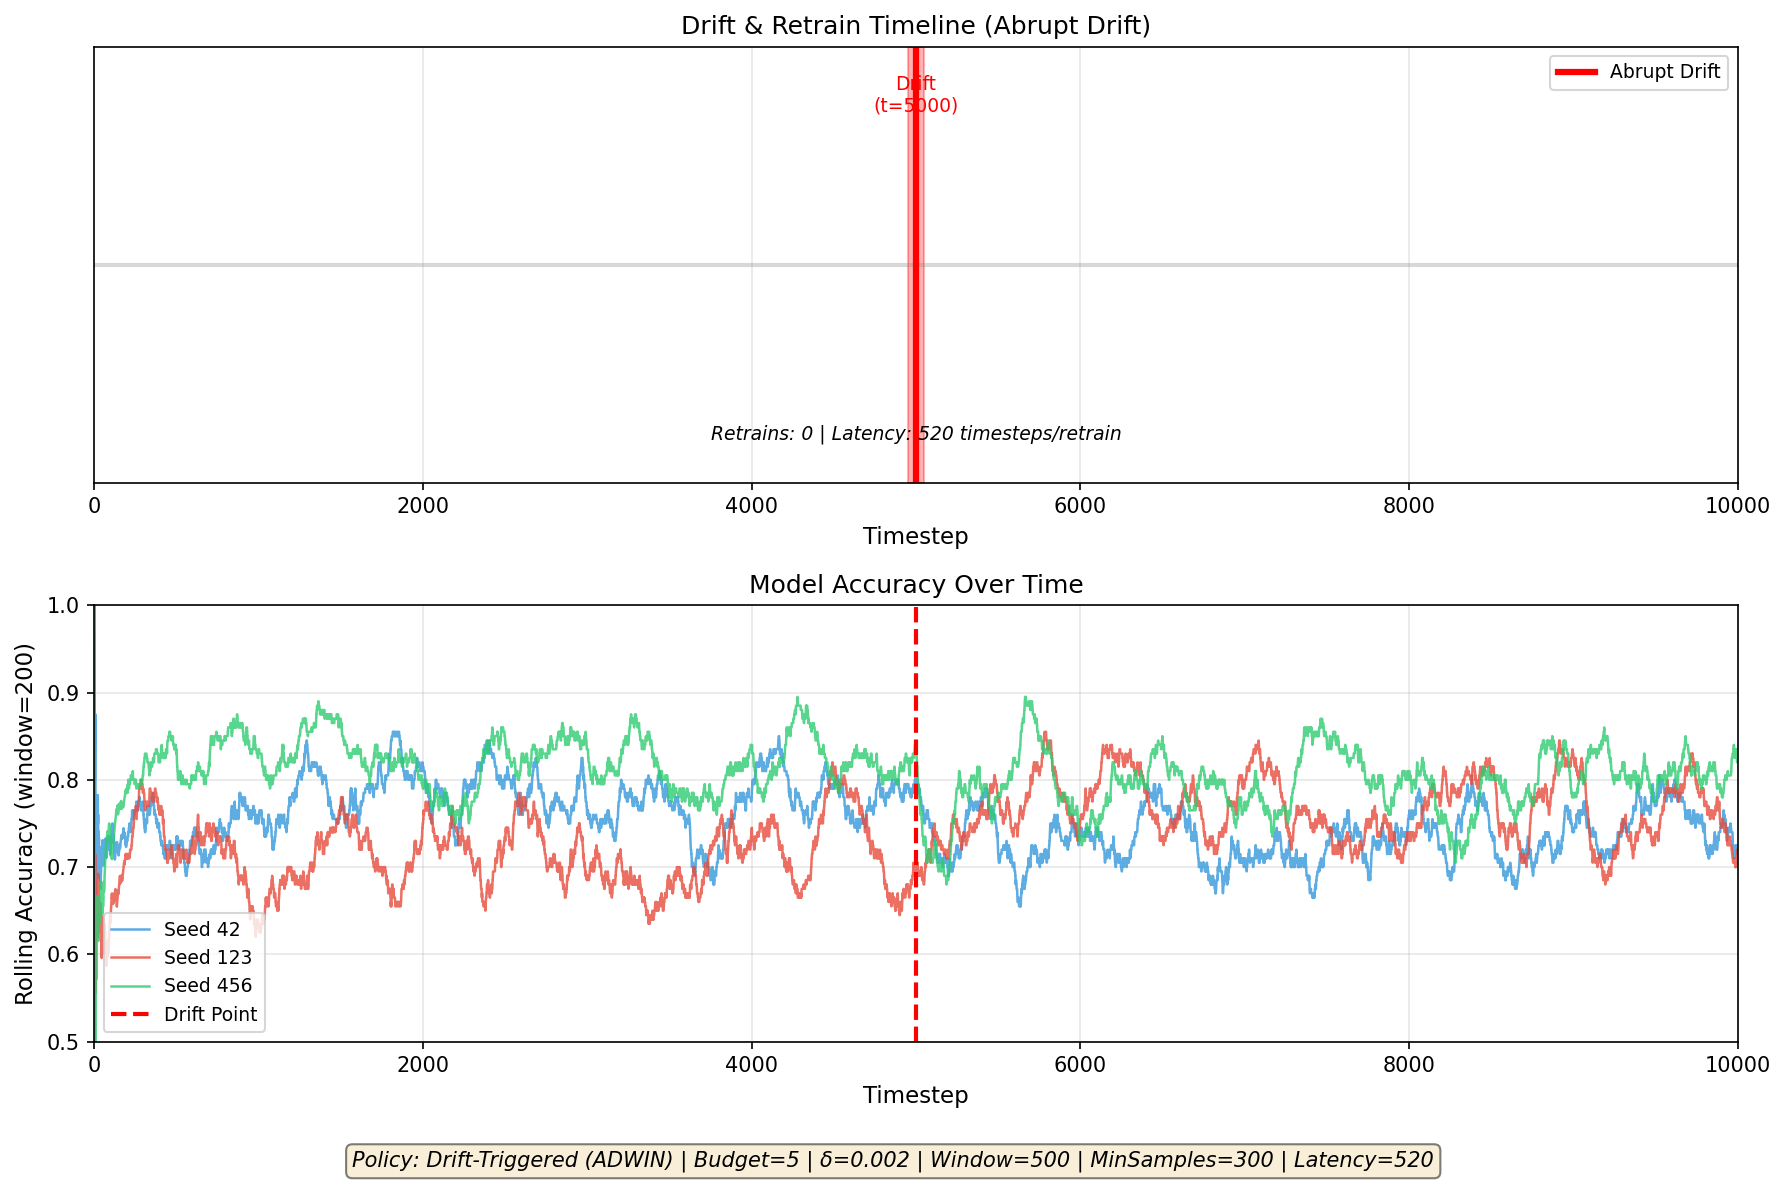
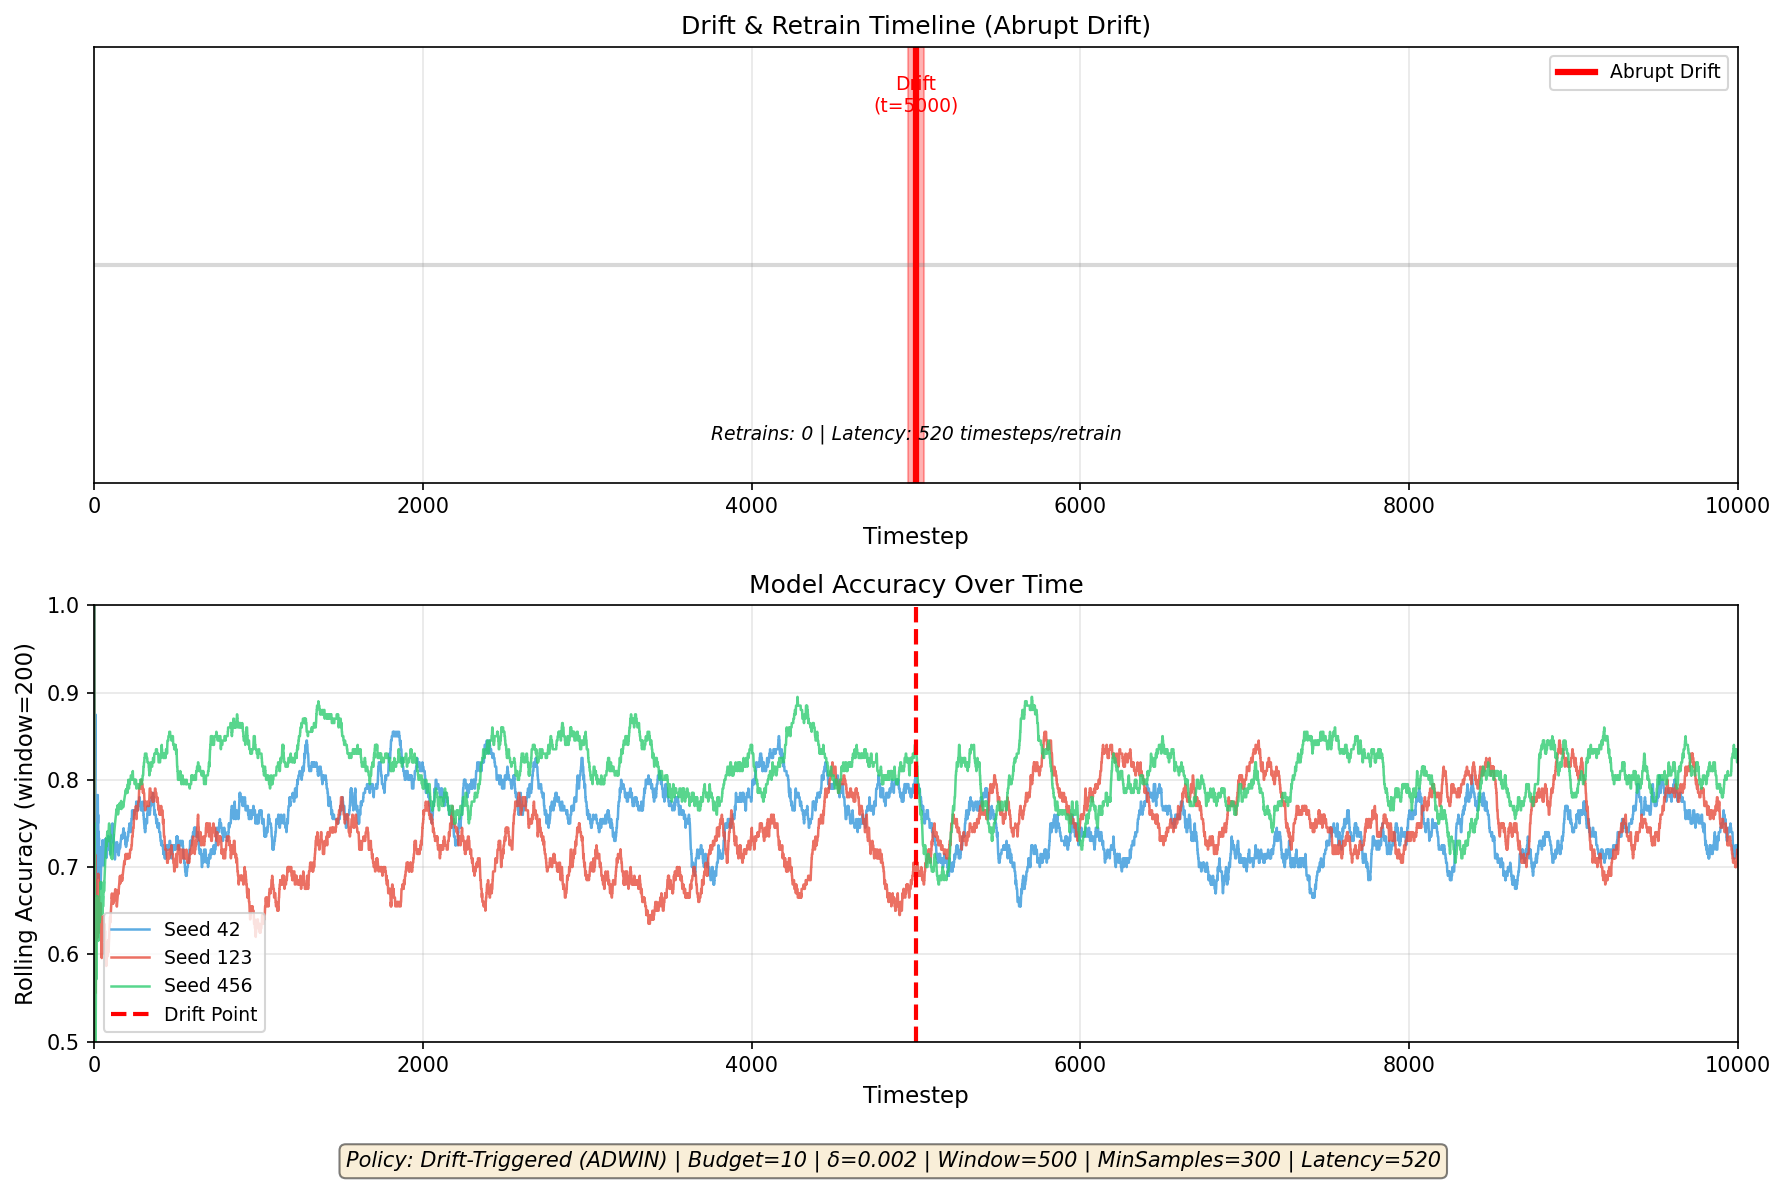
week 6: ran experiment with drift triggered retrain policy with abrupt drift, med budget and high latency

diff --git a/main.py b/main.py
@@ -47,7 +47,7 @@ def main():
         # - High latency: retrain_latency=500, deploy_latency=20
         # - MetricsTracker: Records prediction accuracy/errors over time
         model = StreamingModel()
-        policy = DriftTriggeredPolicy(delta=0.002, window_size=500, min_samples=300, budget=5, retrain_latency=500, deploy_latency=20)
+        policy = DriftTriggeredPolicy(delta=0.002, window_size=500, min_samples=300, budget=10, retrain_latency=500, deploy_latency=20)
         metrics = MetricsTracker()
 
         # Set metadata in metrics for post-analysis
